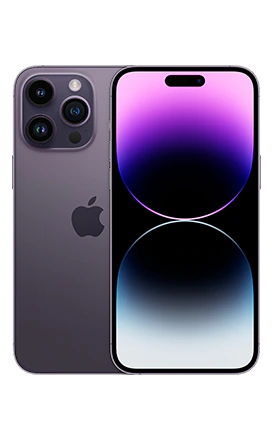
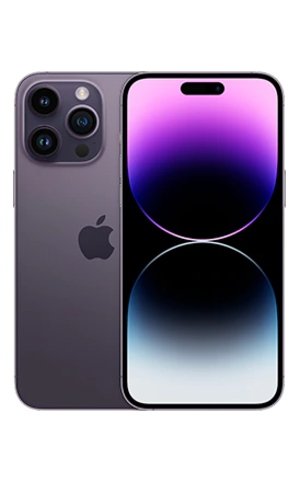
Add image carousel

diff --git a/css/styles.scss b/css/styles.scss
@@ -128,6 +128,7 @@ body {
 
     display: flex;
     justify-content: space-between;
+    align-items: center;
     padding: var(--padding-sides);
     padding-left: 7em;
 }
@@ -182,9 +183,11 @@ body {
 
 .intro-image-container {
 
+    width: 40%;
+
     img {
 
-        width: 350px;
+        height: 400px;
     }
 }
 
@@ -650,9 +653,19 @@ footer {
             --padding-sides: unset;
         }
 
+        .header-container {
+
+            padding-top: 1em;
+        }
+
         .header-btn {
 
             display: none;
+        }
+
+        .intro {
+
+            padding-top: 3em;
         }
 
         .int-btn-cont {
@@ -663,7 +676,8 @@ footer {
 
         .intro-image-container {
 
-            display: none;
+            padding-top: 1em;
+            padding-bottom: 1em;
         }
 
         .intro-container, .about-container, .about2-container, 

diff --git a/css/styles.css b/css/styles.css
@@ -87,6 +87,7 @@ body {
 .contact-container {
   display: flex;
   justify-content: space-between;
+  align-items: center;
   padding: var(--padding-sides);
   padding-left: 7em;
 }
@@ -127,8 +128,11 @@ body {
   gap: 2em;
 }
 
+.intro-image-container {
+  width: 40%;
+}
 .intro-image-container img {
-  width: 350px;
+  height: 400px;
 }
 
 .about {
@@ -459,14 +463,21 @@ footer {
   html {
     --padding-sides: unset;
   }
+  .header-container {
+    padding-top: 1em;
+  }
   .header-btn {
     display: none;
+  }
+  .intro {
+    padding-top: 3em;
   }
   .int-btn-cont {
     flex-direction: column;
   }
   .intro-image-container {
-    display: none;
+    padding-top: 1em;
+    padding-bottom: 1em;
   }
   .intro-container, .about-container, .about2-container,
   .services-container, .pricing-container, .action-container,

diff --git a/index.html b/index.html
@@ -183,7 +183,16 @@
 
         <div class="intro-image-container">
 
-          <img src="img/iphone14.png" alt="iPhone">
+          <div id="carouselExampleInterval" class="carousel slide carousel-dark " data-bs-ride="carousel">
+            <div class="carousel-inner">
+              <div class="carousel-item active" data-bs-interval="5000">
+                <img src="img/iphone14.png" class="d-block" alt="...">
+              </div>
+              <div class="carousel-item">
+                <img src="img/tablet.webp" class="d-block" alt="...">
+              </div>
+            </div>
+          </div>
 
         </div>
 

diff --git a/README.md b/README.md
@@ -8,6 +8,7 @@ A website to create a concept design for a tech repair shop.
 
 - Better SCSS Nesting
 - Better use of containers for elements
+- Adding a carousel using bootstrap
 
 ## Frameworks and Tools Used
 
